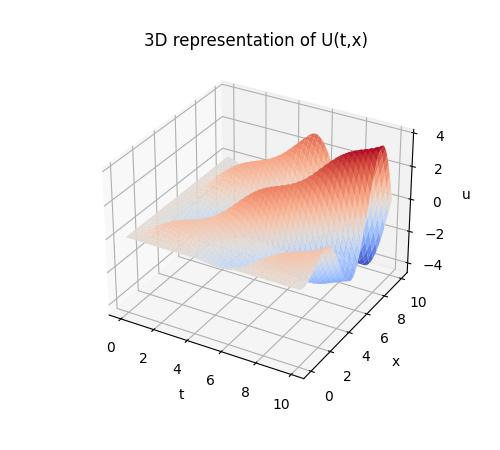
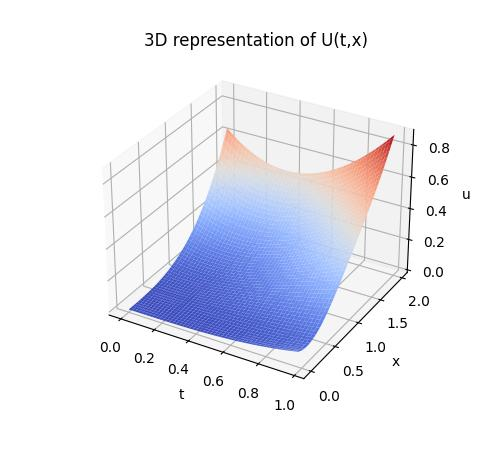
Saving

diff --git a/lab1/direct_solver.c b/lab1/direct_solver.c
@@ -6,17 +6,17 @@
 
 #include "inc/methods.h"
 
-int const TIME_DIAP = 10;
-int const AXES_DIAP = 10;
+int const TIME_DIAP = 2;
+int const AXES_DIAP = 1;
 double const tau = 0.01;
 double const h = 0.01;
 
 double u_x(double x){
-    return 0; 
+    return x*x*x/12; 
 }
 
 double u_t(double t){
-    return 0;
+    return t*t*t/12;
 }
 
 int main(int argc, char** argv){

diff --git a/lab1/vision.py b/lab1/vision.py
@@ -18,8 +18,8 @@ def make_3dplot(u_time, u_x, u_val):
     u_x, u_time = np.meshgrid(u_x, u_time)
     ax.plot_surface(u_x, u_time, np.array(u_val), cmap=cm.coolwarm)
     ax.set_title('3D representation of U(t,x)')
-    ax.set_ylabel('x')
-    ax.set_xlabel('t')
+    ax.set_xlabel('x')
+    ax.set_ylabel('t')
     ax.set_zlabel('u')
     plt.savefig('3D.jpeg')
 

diff --git a/lab1/src/next_point.c b/lab1/src/next_point.c
@@ -2,7 +2,7 @@
 #include "../inc/next_point.h"
 
 double func(float t, float x){
-    return sin(x)*cos(t);
+    return t*x;
 }
 
 double next_point_angle(Node node, double h, double tau){
